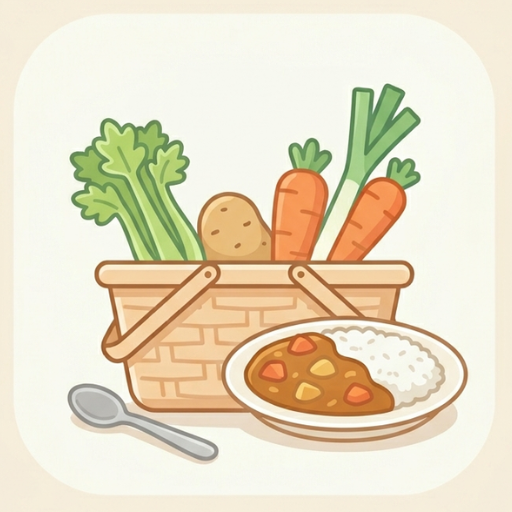
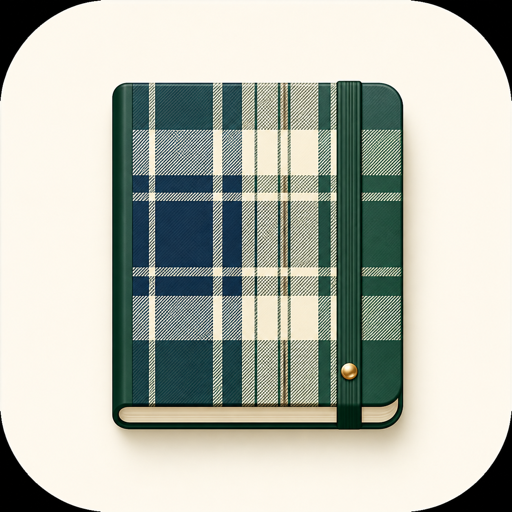
Initial commit

diff --git a/app.js b/app.js
@@ -1,5 +1,5 @@
 const STORAGE_KEY = "kurashiNotePrototype:v1";
-const MIGRATION_KEY = "kurashiNotePrototype:migratedFromLegacy:v1";
+const MIGRATION_KEY = "kurashiNotePrototype:migratedFromLegacy:v2";
 const days = ["月", "火", "水", "木", "金", "土", "日"];
 const categories = {
   food: { label: "食費", icon: "🍙" },
@@ -85,6 +85,55 @@ function defaultWeekData() {
   };
 }
 
+function createId(prefix = "item") {
+  const randomPart =
+    globalThis.crypto?.randomUUID?.() ||
+    `${Date.now()}-${Math.random().toString(36).slice(2)}`;
+  return `${prefix}-${randomPart}`;
+}
+
+function normalizeMonthData(month) {
+  const source = month && typeof month === "object" ? month : {};
+  return {
+    budgets: {
+      all: Number(source.budgets?.all) || 0,
+      food: Number(source.budgets?.food) || 0,
+      daily: Number(source.budgets?.daily) || 0,
+      other: Number(source.budgets?.other) || 0
+    },
+    expenses: Array.isArray(source.expenses) ? source.expenses : []
+  };
+}
+
+function normalizeWeekData(week) {
+  const source = week && typeof week === "object" ? week : {};
+  return {
+    meals: source.meals && typeof source.meals === "object" ? source.meals : {},
+    shopping: Array.isArray(source.shopping) ? source.shopping : []
+  };
+}
+
+function ensureStateShape(targetState) {
+  targetState.currentMonth = targetState.currentMonth || new Date().toISOString();
+  targetState.currentWeek = targetState.currentWeek || new Date().toISOString();
+  targetState.months = targetState.months && typeof targetState.months === "object" ? targetState.months : {};
+  targetState.weeks = targetState.weeks && typeof targetState.weeks === "object" ? targetState.weeks : {};
+
+  Object.keys(targetState.months).forEach((key) => {
+    targetState.months[key] = normalizeMonthData(targetState.months[key]);
+  });
+
+  Object.keys(targetState.weeks).forEach((key) => {
+    targetState.weeks[key] = normalizeWeekData(targetState.weeks[key]);
+  });
+
+  const currentMonth = monthKey(targetState.currentMonth);
+  const currentWeek = weekKey(targetState.currentWeek);
+  if (!targetState.months[currentMonth]) targetState.months[currentMonth] = defaultMonthData();
+  if (!targetState.weeks[currentWeek]) targetState.weeks[currentWeek] = defaultWeekData();
+  return targetState;
+}
+
 function createInitialState() {
   return {
     currentMonth: new Date().toISOString(),
@@ -99,14 +148,13 @@ function loadState() {
   if (!saved) {
     const initialState = createInitialState();
     migrateLegacyData(initialState);
-    return initialState;
+    return ensureStateShape(initialState);
   }
 
   try {
     const parsed = JSON.parse(saved);
     if (!parsed.months) throw new Error("Invalid data");
-    if (!parsed.weeks) parsed.weeks = {};
-    if (!parsed.currentWeek) parsed.currentWeek = new Date().toISOString();
+    ensureStateShape(parsed);
 
     Object.entries(parsed.months).forEach(([key, month]) => {
       if (month.meals || month.shopping) {
@@ -119,14 +167,12 @@ function loadState() {
       }
     });
 
-    const currentWeek = weekKey(parsed.currentWeek);
-    if (!parsed.weeks[currentWeek]) parsed.weeks[currentWeek] = defaultWeekData();
     migrateLegacyData(parsed);
-    return parsed;
+    return ensureStateShape(parsed);
   } catch {
     const initialState = createInitialState();
     migrateLegacyData(initialState);
-    return initialState;
+    return ensureStateShape(initialState);
   }
 }
 
@@ -139,16 +185,19 @@ function migrateLegacyData(targetState) {
     const konda = JSON.parse(localStorage.getItem("kondaNoteAppData") || "null");
     if (konda?.weeks) {
       Object.entries(konda.weeks).forEach(([key, week]) => {
-        const targetWeek = targetState.weeks[key] || defaultWeekData();
-        targetWeek.meals = { ...targetWeek.meals, ...(week.menus || {}) };
+        const targetWeek = normalizeWeekData(targetState.weeks[key] || defaultWeekData());
+        const legacyMeals = week.menus || week.meals || {};
+        const legacyItems = week.items || week.shopping || [];
+        const existingIds = new Set(targetWeek.shopping.map((item) => item.id));
+        targetWeek.meals = { ...targetWeek.meals, ...legacyMeals };
         targetWeek.shopping = [
           ...targetWeek.shopping,
-          ...(week.items || []).map((item) => ({
-            id: `konda-${item.id || crypto.randomUUID()}`,
+          ...legacyItems.map((item) => ({
+            id: item.id ? `konda-${item.id}` : createId("konda"),
             name: item.name,
-            day: item.menuDay || "",
-            done: Boolean(item.checked)
-          })).filter((item) => item.name)
+            day: item.menuDay || item.day || "",
+            done: Boolean(item.checked ?? item.done)
+          })).filter((item) => item.name && !existingIds.has(item.id))
         ];
         targetState.weeks[key] = targetWeek;
       });
@@ -165,7 +214,7 @@ function migrateLegacyData(targetState) {
     if (legacyBudgets && Object.keys(legacyBudgets).length > 0) {
       const monthBudgets = legacyBudgets.all !== undefined ? { [monthKey(new Date())]: legacyBudgets } : legacyBudgets;
       Object.entries(monthBudgets).forEach(([key, budget]) => {
-        const targetMonth = targetState.months[key] || defaultMonthData();
+        const targetMonth = normalizeMonthData(targetState.months[key] || defaultMonthData());
         targetMonth.budgets = {
           all: Number(budget.all) || 0,
           food: Number(budget.food) || 0,
@@ -181,9 +230,11 @@ function migrateLegacyData(targetState) {
       legacyExpenses.forEach((expense) => {
         if (!expense.date || !expense.amount) return;
         const key = expense.date.slice(0, 7);
-        const targetMonth = targetState.months[key] || defaultMonthData();
+        const targetMonth = normalizeMonthData(targetState.months[key] || defaultMonthData());
+        const expenseId = expense.id ? `left-${expense.id}` : createId("left");
+        if (targetMonth.expenses.some((item) => item.id === expenseId)) return;
         targetMonth.expenses.push({
-          id: `left-${expense.id || crypto.randomUUID()}`,
+          id: expenseId,
           amount: Number(expense.amount) || 0,
           category: categories[expense.category] ? expense.category : "other",
           date: expense.date,
@@ -210,12 +261,14 @@ function saveState() {
 function currentData() {
   const key = monthKey();
   if (!state.months[key]) state.months[key] = defaultMonthData();
+  state.months[key] = normalizeMonthData(state.months[key]);
   return state.months[key];
 }
 
 function currentWeekData() {
   const key = weekKey();
   if (!state.weeks[key]) state.weeks[key] = defaultWeekData();
+  state.weeks[key] = normalizeWeekData(state.weeks[key]);
   return state.weeks[key];
 }
 
@@ -237,7 +290,8 @@ function totals() {
   const data = currentData();
   const spentByCategory = { food: 0, daily: 0, other: 0 };
   data.expenses.forEach((expense) => {
-    spentByCategory[expense.category] += expense.amount;
+    const category = categories[expense.category] ? expense.category : "other";
+    spentByCategory[category] += Number(expense.amount) || 0;
   });
 
   const spent = Object.values(spentByCategory).reduce((sum, amount) => sum + amount, 0);
@@ -327,7 +381,7 @@ function renderMeals(data) {
         <div class="meal-top">
           <span class="meal-day">${day}曜日</span>
         </div>
-        <div class="meal-name">${meal}</div>
+        <div class="meal-name">${escapeHtml(meal)}</div>
         <form class="meal-tools" data-day="${day}">
           <input type="text" name="name" placeholder="買う食材を追加">
           <button class="secondary-btn">追加</button>
@@ -352,7 +406,7 @@ function renderShopping(data) {
           <input type="checkbox" data-action="toggle-shopping" data-id="${item.id}" ${item.done ? "checked" : ""}>
         <span>
           <span class="item-name">${escapeHtml(item.name)}</span>
-          <span class="item-meta">${item.day ? `${item.day}曜の献立` : "直接追加"}</span>
+          <span class="item-meta">${item.day ? `${escapeHtml(item.day)}曜の献立` : "直接追加"}</span>
         </span>
       </label>
       <div>
@@ -373,7 +427,7 @@ function renderExpenses(data) {
     .map((expense) => `
       <li class="expense-item">
         <div>
-          <strong>${categories[expense.category].icon} ${categories[expense.category].label}</strong>
+          <strong>${(categories[expense.category] || categories.other).icon} ${(categories[expense.category] || categories.other).label}</strong>
           <div class="expense-meta">${expense.date}${expense.memo ? `・${escapeHtml(expense.memo)}` : ""}</div>
         </div>
         <div>
@@ -414,7 +468,7 @@ function openMealDialog() {
 function addShoppingItem(name, day = "") {
   if (!name.trim()) return;
   currentWeekData().shopping.push({
-    id: crypto.randomUUID(),
+    id: createId("shopping"),
     name: name.trim(),
     day,
     done: false
@@ -428,10 +482,10 @@ function addExpense(amount, category, date, memo = "") {
   const numericAmount = Number(amount);
   if (!numericAmount || numericAmount < 0) return;
   currentData().expenses.push({
-    id: crypto.randomUUID(),
+    id: createId("expense"),
     amount: numericAmount,
-    category,
-    date,
+    category: categories[category] ? category : "other",
+    date: date || todayISO(),
     memo
   });
   saveState();